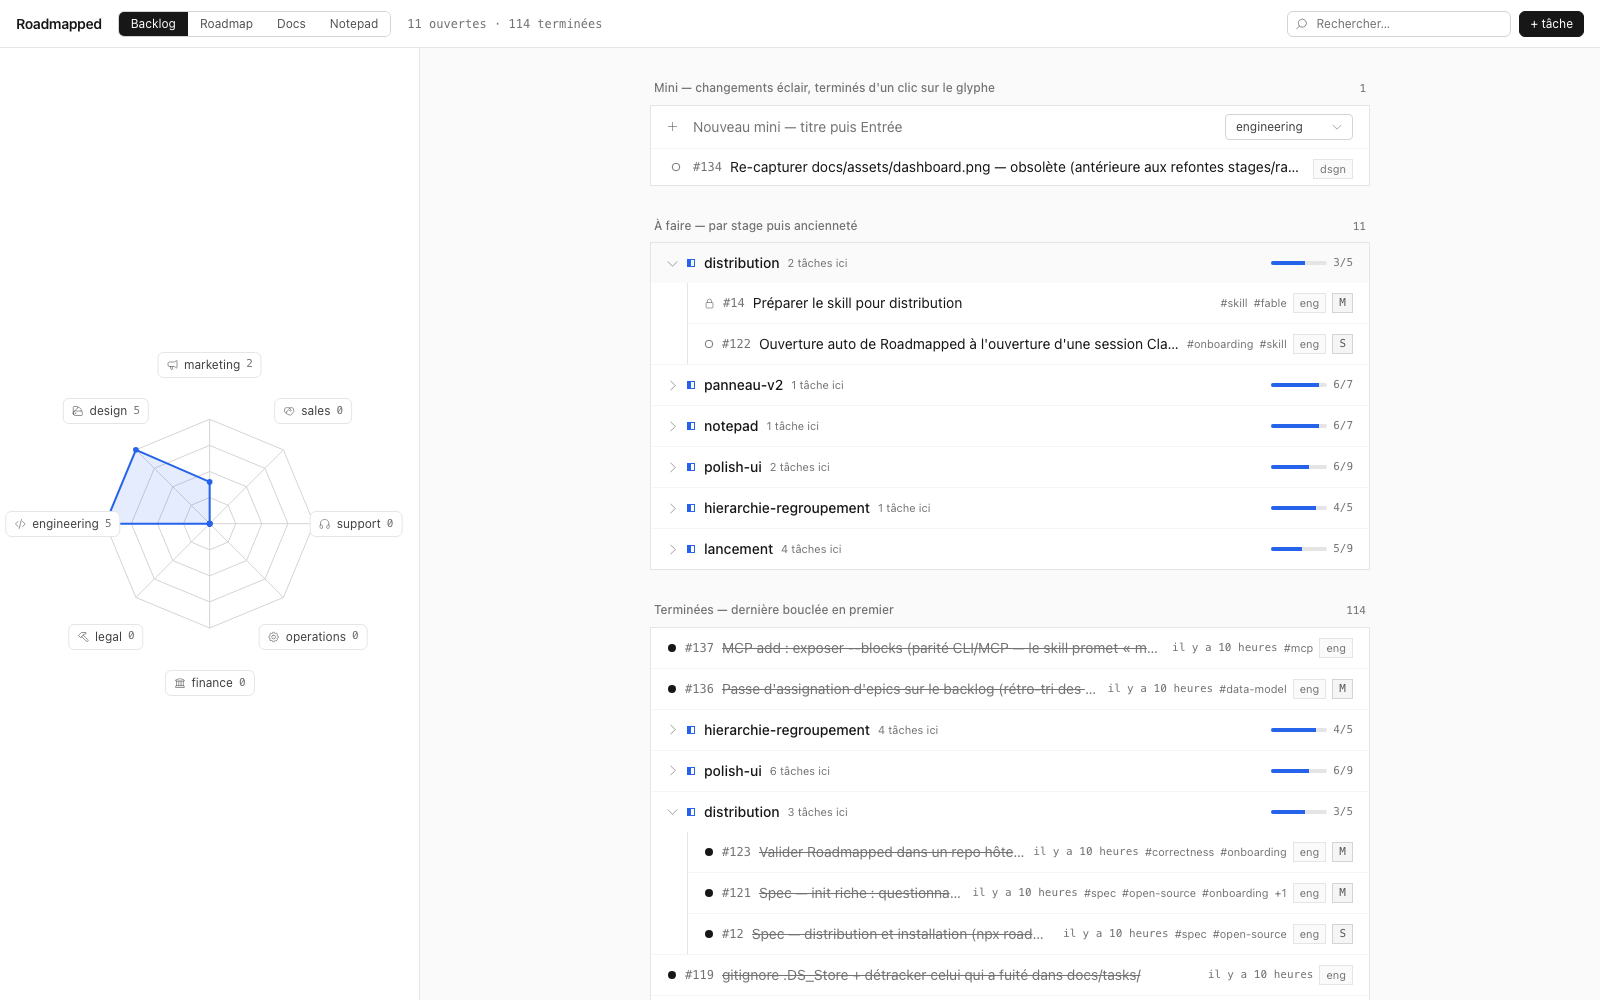
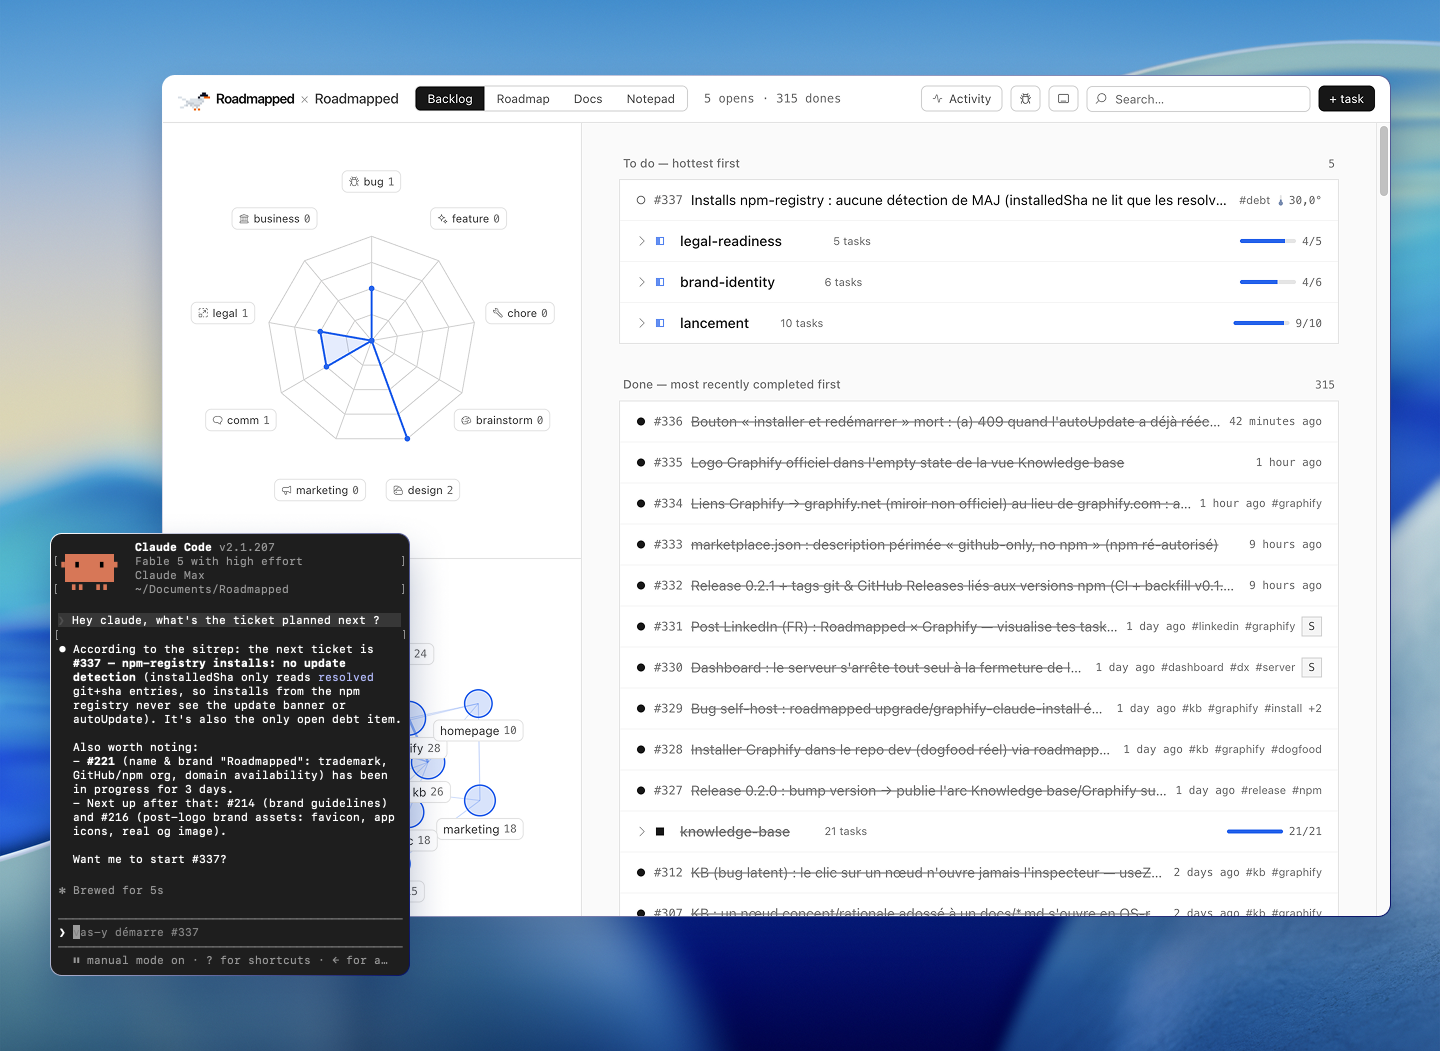
feat(#338): README restylé — hero centré (oiseau, titre, baseline), prompt d'install copiable en premier, nouvelle capture, copy densifiée

diff --git a/README.md b/README.md
@@ -1,101 +1,81 @@
-# Roadmapped
+<div align="center">
 
-<img src="./docs/assets/bird-peck.gif" alt="La mascotte Roadmapped picore" align="right" width="84" />
+<img src="./docs/assets/bird-peck.gif" alt="The Roadmapped bird, pecking" width="96" />
+
+<h1>Roadmapped</h1>
+
+**Your repo is already your project management tool. We just added the interface.**
 
 [![License: MIT](https://img.shields.io/badge/License-MIT-blue.svg)](./LICENSE)
 ![Node](https://img.shields.io/badge/node-%E2%89%A522.18-blue.svg)
 
-**Your repo is already your project management tool. We just added the interface.**
+</div>
 
-Backlog, roadmap and docs live as plain YAML and markdown inside your repository — the only
-source of truth. No database, no SaaS, no account. Your AI agent reads and writes it in the
-right format through a CLI and a Claude skill; you review the diff.
+Backlog, roadmap, docs and a knowledge graph of your code — all flat YAML and markdown
+inside your repository, the only source of truth. No database, no SaaS, no account. Your
+AI agent reads and writes it through a CLI and a Claude skill; you review the diff.
 
-![Roadmapped dashboard — Backlog view](./docs/assets/dashboard.png)
+![Roadmapped dashboard — Backlog view, with the agent working the queue](./docs/assets/dashboard.png)
 
-## Install it by pointing your AI agent at this repo
+## Install: one prompt
 
-Give your AI coding agent (Claude Code and friends) this repo and one instruction:
+Paste this to your AI coding agent (Claude Code and friends):
 
-> **Install Roadmapped in my repo:** https://github.com/5e1y/roadmapped
+```text
+Install Roadmapped in my repo: https://github.com/5e1y/roadmapped
+```
 
-Three ways in. All three converge on the same wired state, and every install keeps itself
-current from GitHub HEAD in the background — no reinstalling.
+The agent does the rest. An installer that is a prompt is exactly the level of effort
+this project aims for.
 
-**Claude Code plugin** — the easiest inside Claude Code:
+Prefer typing it yourself? Three ways in — same wired state, and every install keeps
+itself current from GitHub HEAD afterwards, no reinstalling:
+
+**Claude Code plugin**
 
 ```
 /plugin marketplace add 5e1y/roadmapped
 /plugin install roadmapped@roadmapped
 ```
 
-**npm** — from your repo's root:
+**npm**
 
 ```bash
-npx roadmapped init   # scaffold + skill + .mcp.json + git guard + SessionStart hooks + devDependency
-npm install           # materialize node_modules/roadmapped → activates the hooks + MCP
+npx roadmapped init && npm install
 ```
 
-**Straight from GitHub** — same thing, no npm registry involved:
+**Straight from GitHub** — no registry involved:
 
 ```bash
-npx --yes github:5e1y/roadmapped init
-npm install
+npx --yes github:5e1y/roadmapped init && npm install
 ```
 
-GitHub stays the single source of truth; npm mirrors it automatically.
+`init` is idempotent and lays down everything once: the `docs/tasks/` skeleton, the Claude
+skill, a git pre-commit guard, an `.mcp.json` entry, a `CLAUDE.md` block, and `roadmapped`
+as a devDependency. Then **restart your Claude Code session** (it picks up the skill and the
+MCP server) and tell the agent **"let's set up Roadmapped"** — the setup phase converts your
+existing plans, TODOs and specs into the backlog, with your sign-off on the mapping.
+`npx roadmapped dashboard` opens the UI; `npx roadmapped --help` is the CLI your agent
+(or you) drives.
 
-`init` is idempotent. It lays down the `docs/tasks/` skeleton, the Claude skill in
-`.claude/skills/`, a git pre-commit guard, an `.mcp.json` entry, a `CLAUDE.md` block, and
-adds `roadmapped` as a devDependency.
-
-Then:
-
-1. **Restart your Claude Code session** so it picks up the freshly installed skill *and* the
-   MCP server.
-2. Tell the agent **"let's set up Roadmapped"**. The skill is now active — its setup phase
-   reads your existing plans, roadmaps, TODOs and specs and converts them into the backlog,
-   with your sign-off on the mapping. From there, `npx roadmapped <cmd>` drives everything.
-
-> **Requirements:** Node ≥ 22.18 in the host repo. Roadmapped installs itself as a dev
-> dependency, so the repo needs a `package.json` (the guard hook, `SessionStart` hook and
-> MCP entry all resolve through `node_modules/roadmapped/`).
->
-> **Non-Node repo (Python, Go, Rust…)?** Add a minimal `package.json` at the root
-> (`npm init -y` is enough — Roadmapped only uses it to install itself), or track the project
-> from a sibling Node repo. First-class non-Node support (an npx fallback or a standalone
-> launcher) is on the roadmap, not in v1.
+> **Requirements:** Node ≥ 22.18 and a `package.json` in the host repo — the hooks and the
+> MCP entry resolve through `node_modules/roadmapped/`. Non-Node repo (Python, Go, Rust…)?
+> `npm init -y` at the root is enough; Roadmapped only uses it to install itself.
+> First-class non-Node support is on the roadmap, not in v1.
 
 ## Why
 
-- **It's just files.** Task YAML you can diff, review, and blame — because it *is* one. No
-  hidden state, no second copy to drift out of sync.
-- **Agent-first.** A CLI (`npx roadmapped`) and a Claude skill so your agent creates specs,
-  tasks and dependencies in the correct schema — and records what it ships.
-- **Local and yours.** Your data stays on your machine, in your repo. Not out of principle —
-  we simply don't have a server to send it to. Deleting your account is `rm -rf`.
-- **Light.** The dashboard ships pre-built, so installing Roadmapped pulls ~30 MB into your
-  repo — not a full front-end build toolchain. Node ≥ 22.18 and a `package.json`; that's it.
-- **Free, and actually free.** MIT licensed. No pricing page, no seats, no "contact sales."
+- **It's just files.** Task YAML you can diff, review and blame — because it *is* one.
+  No hidden state, no second copy to drift out of sync.
+- **Agent-first.** Your agent creates specs, tasks and dependencies in the correct schema,
+  and records what it ships: outcome, verification, commit. Every write — dashboard or
+  CLI — goes through the same validator; on error the change rolls back.
+- **Local and yours.** Your data stays in your repo. Not out of principle — we simply
+  don't have a server to send it to. Deleting your account is `rm -rf`.
+- **Light.** The dashboard ships pre-built: ~30 MB in your repo, no front-end toolchain.
+- **Free, actually.** MIT. No pricing page, no seats, no "contact sales."
 
 > Yes, it's a folder of YAML files. No, it's not a database. That's kind of the point.
-
-## Quickstart
-
-In any repo you want to manage:
-
-```bash
-npx roadmapped init       # scaffold docs/tasks/, the skill, the git guard
-npx roadmapped dashboard  # open the dashboard in your browser
-npx roadmapped --help     # the CLI your agent (or you) drives
-```
-
-`init` also drops a Claude skill into `.claude/` and an `.mcp.json` entry, so your AI
-agent can create and record tasks in the right schema from the first prompt.
-
-> **Working on Roadmapped itself?** Clone the repo, then `npm install` and `npm run dev`
-> for the dashboard; the CLI is `node scripts/task.mjs`. Everything below the hood is the
-> same code the published package runs.
 
 ## What's in the folder
 
@@ -104,29 +84,24 @@ agent can create and record tasks in the right schema from the first prompt.
 | **Backlog** | Sections and tasks under `docs/tasks/`, full CRUD from the dashboard or the CLI. |
 | **Roadmap** | Your sections as columns plus a dependency graph, with `done` / `available` / `locked` states **computed from the graph, never stored**. |
 | **Docs** | Your `docs/` folder rendered as markdown. |
-| **Knowledge base** | A live graph of your repo (code + docs) with the tickets wired in via their `refs` — nothing to fill in. Rendered in the Docs tab, queried by your agent. Installed by default at `init` (`--no-kb` to opt out) — see [Knowledge base, powered by Graphify](#knowledge-base-powered-by-graphify). |
-| **Agent CLI + Claude skill** | `scripts/task.mjs` and `skills/roadmapped/` so an agent creates and records work in the correct schema. |
-| **Validation + rollback** | Every write — dashboard or CLI — goes through the same validator; on error the change rolls back. Ids are never reused. |
+| **Knowledge base** | A live graph of your repo — code, docs, and the tickets wired in via their `refs`, nothing to fill in. Installed by default at `init` (`--no-kb` to opt out). |
+| **Agent CLI + Claude skill** | `npx roadmapped <cmd>` and `skills/roadmapped/`, so an agent drives the whole cycle — and is held to it by the git guard. |
 
 ## Knowledge base, powered by Graphify
 
-Your repo gets a knowledge graph: code and docs indexed as nodes and relations, tickets
-wired in through their `refs`, committed at `graphify-out/graph.json` — a file, like
-everything else here. It's built by [Graphify](https://graphify.com/), a separate
-open-source project (full credit below, in the License section).
+Your repo gets a knowledge graph: code and docs as nodes and relations, tickets wired in
+through their `refs`, committed at `graphify-out/graph.json` — a file, like everything
+else here. The pretty graph in the Docs tab is not the point. The point is that your agent
+navigates the repo through it instead of grepping cold: task briefs embed the neighborhood
+of the files they touch, and the MCP tools (`kb_neighborhood`, `kb_search`, `kb_node`)
+answer "where does X live, what touches it" in a few hundred tokens instead of a
+read-everything expedition. Up to ~70% fewer *exploration* tokens — exploration, not the
+whole session; no miracle claimed beyond that.
 
-The pretty graph in the Docs tab is not the point. The point is that your agent navigates
-the repo through it instead of grepping cold: task briefs embed the neighborhood of the
-files they touch, and the MCP tools (`kb_neighborhood`, `kb_search`, `kb_node`) plus
-`npx roadmapped kb` answer "where does X live, what touches it" in a few hundred tokens
-instead of a read-everything expedition. Up to ~70% fewer **exploration** tokens —
-exploration, not the whole session; the agent still reads what it edits. No miracle
-claimed beyond that.
-
-Installed by default at `init` (opt out with `--no-kb`) — a one-time ~30 MB on your
-machine, up to ~85 MB if it has neither Python nor uv; the npm package stays Node-only.
-The graph itself is generated by your agent — one `/graphify .`, the only step that costs
-tokens, and it asks first. Refreshes (`/graphify . --update`) are code-only and free.
+The graph is generated by your agent — one `/graphify .`, the only step that costs tokens,
+and it asks first. Refreshes are code-only and free. The layer is Python-powered and
+installed by `init`: a one-time ~30 MB on your machine, up to ~85 MB if it has neither
+Python nor uv — the npm package stays Node-only either way.
 
 ## How it works
 
@@ -134,13 +109,16 @@ Everything is flat, hand-editable files. The dashboard and the CLI read and writ
 data through the same validator — never a second, parallel schema hiding somewhere. Roadmap
 states are derived from the dependency graph on every read; your git history is the audit log.
 
-Roadmapped's own backlog is managed by Roadmapped, mostly by a Claude agent that records every
-task it ships. The done tasks are the changelog. If you want to know whether the workflow
-holds up, read the backlog.
+Roadmapped's own backlog is managed by Roadmapped, mostly by a Claude agent that records
+every task it ships. The done tasks are the changelog. If you want to know whether the
+workflow holds up, read the backlog — it's public, and more honest than we'd like.
 
 > **Naming** — the brand is **Roadmapped** (two p's, renamed 2026-07). The GitHub repository
 > and the npm package are `roadmapped` (lowercase). Host repos still using the legacy
 > `roadmaped.config.json` (one p) keep working — the old filename is read as a fallback.
+>
+> **Working on Roadmapped itself?** Clone, `npm install`, `npm run dev`; the CLI is
+> `node scripts/task.mjs`. Everything under the hood is the same code the package runs.
 
 ## Documentation
 
